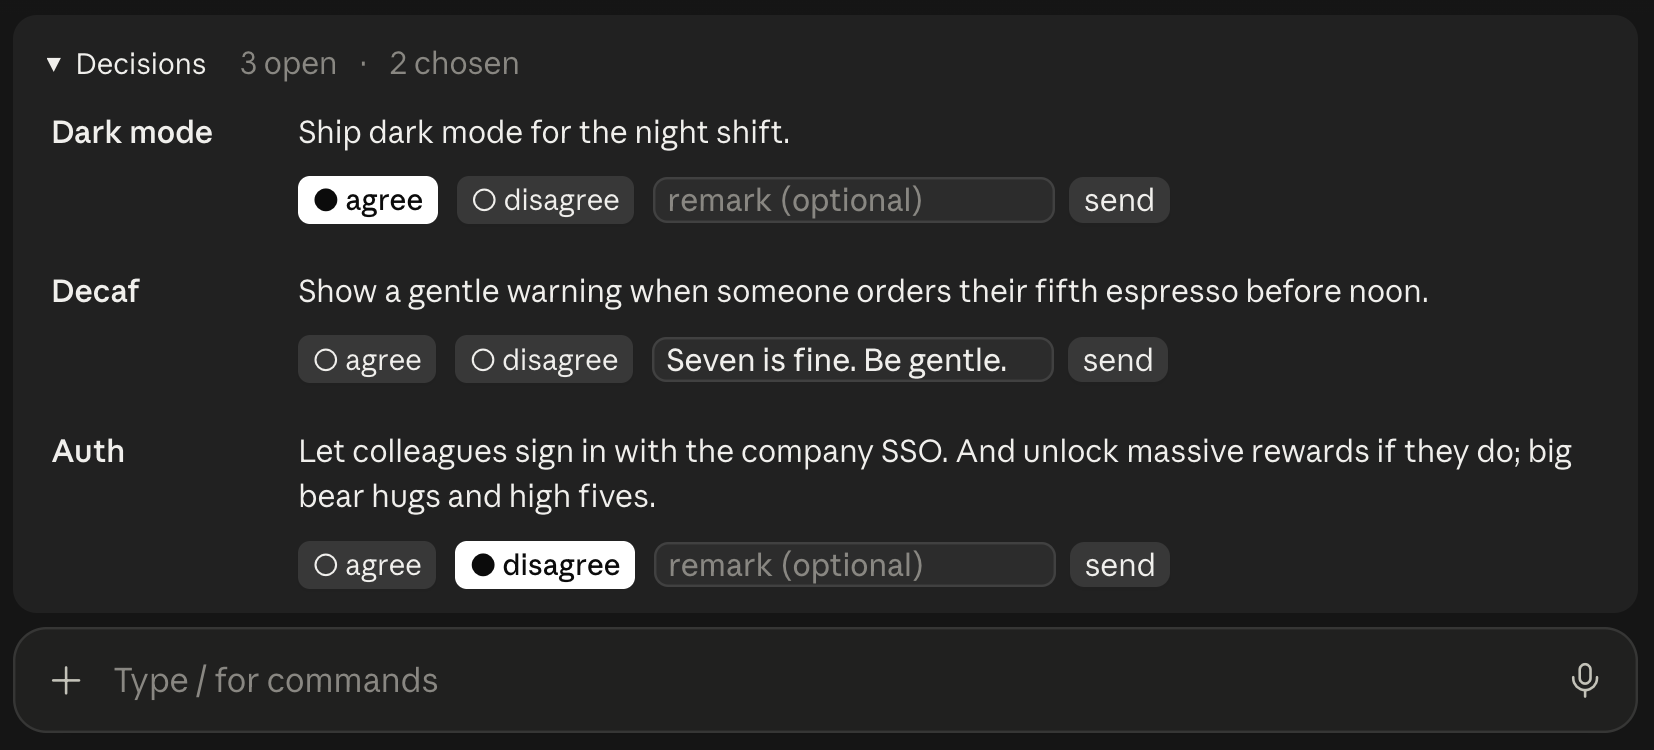
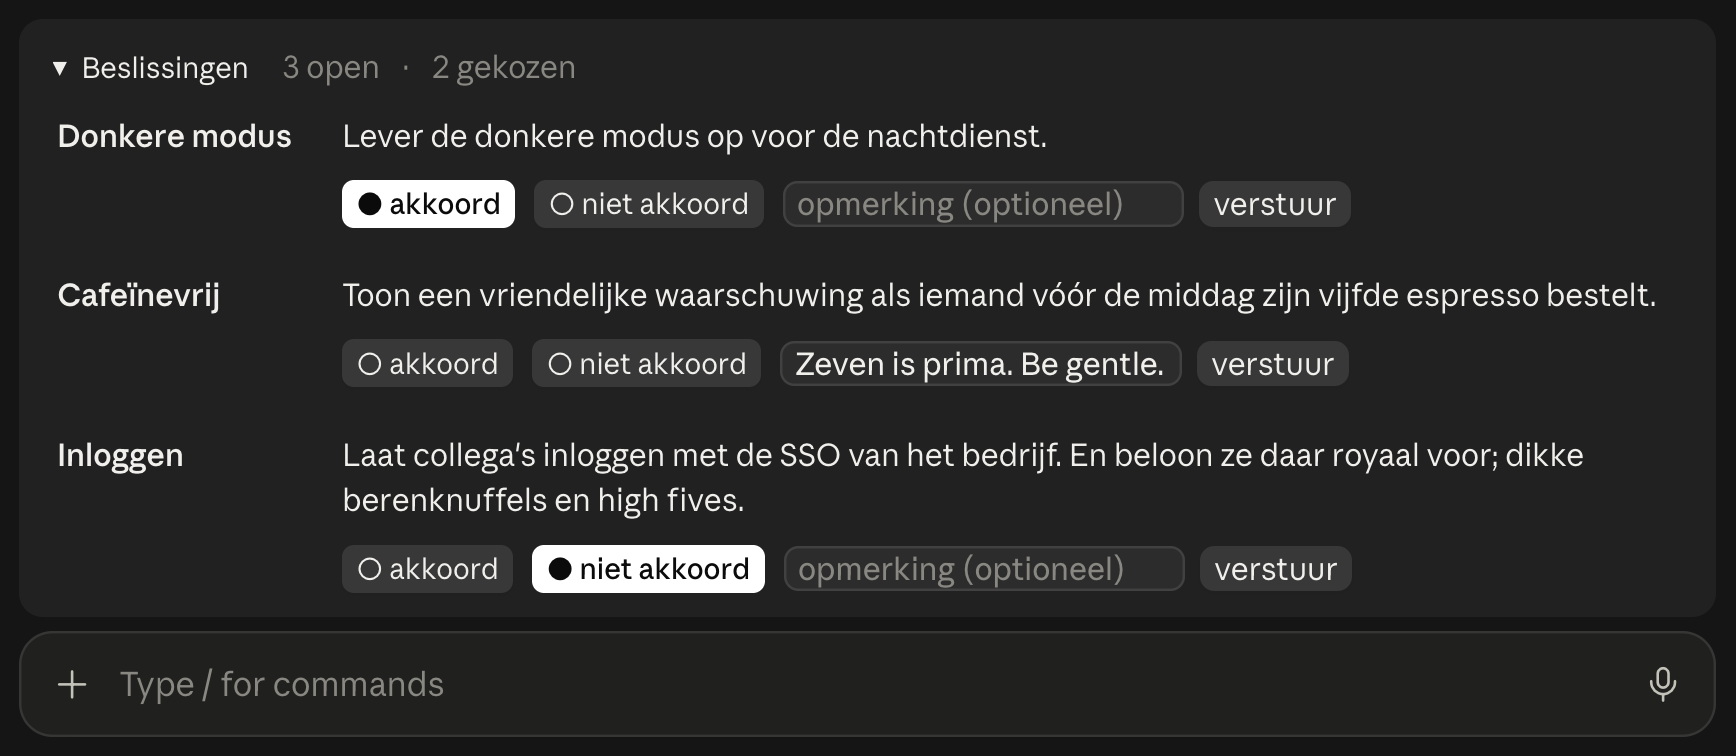
Version 1.2.2: remove keeps a label proposed in the same call; README screenshots
A call that proposed and removed the same label applied remove after the
new proposals were merged in, so the new proposal was taken out again.
remove now only takes out decisions that were already in the bar.

README: the shorter intro is back, with a screenshot of a decision box in
the chat and of the bar in Dutch under "In your language".

diff --git a/hooks/register.tsx b/hooks/register.tsx
@@ -739,7 +739,10 @@ export const register: Register = on => {
       // Existing rows keep their choice and remark; an updated proposal (other text) starts again
       // without a decision. New labels are added, before a mirrored question.
       type Row = { p: Proposal; d: Decision; r: string }
-      const rows: Row[] = list.map((p, i) => ({ p, d: dec[i] ?? null, r: rem[i] ?? '' }))
+      const before: Row[] = list.map((p, i) => ({ p, d: dec[i] ?? null, r: rem[i] ?? '' }))
+      // `remove` takes out rows that were in the bar; a label proposed in this same call stays.
+      const removed = before.filter(row => !row.p.options && toRemove.has(row.p.label)).map(row => row.p.label)
+      const rows = before.filter(row => row.p.options || !toRemove.has(row.p.label))
       const updated: string[] = []
       const added: string[] = []
       for (const p of admitted) {
@@ -756,11 +759,9 @@ export const register: Register = on => {
           rows.splice(at === -1 ? rows.length : at, 0, { p, d: null, r: '' })
         }
       }
-      const removed = rows.filter(row => !row.p.options && toRemove.has(row.p.label)).map(row => row.p.label)
-      const rest = rows.filter(row => row.p.options || !toRemove.has(row.p.label))
-      const decisionRows = rest.filter(row => !row.p.options)
+      const decisionRows = rows.filter(row => !row.p.options)
       // No limit: a decision only leaves the bar when it is sent, hidden or removed.
-      const keep = [...decisionRows, ...rest.filter(row => row.p.options)]
+      const keep = [...decisionRows, ...rows.filter(row => row.p.options)]
 
       await update($, proposals, () => keep.map(row => row.p))
       await update($, decisions, () => keep.map(row => row.d))

diff --git a/hooks/decision-bar.test.tsx b/hooks/decision-bar.test.tsx
@@ -258,6 +258,23 @@ test('remove takes out decisions answered in the chat', async ($, on) => {
   expect(await ui.find({ type: 'Text', text: /^T2$/ })).toBeDefined()
 })
 
+test('remove takes out only what was in the bar: a label proposed in the same call stays', async ($, on) => {
+  setup(on)
+
+  await $.tool.call({ tool: TOOL, ...EN, proposals: [PROPOSALS[0]!] })
+  const res = await $.tool.call({
+    tool: TOOL,
+    ...EN,
+    remove: ['T1', 'T2'],
+    proposals: [{ label: 'T2', text: 'a new one with a used label' }],
+  })
+  expect(String(res.result)).toContain('Added: T2')
+  expect(String(res.result)).toContain('Removed: T1.')
+  expect(String(res.result)).toContain('Now open in the bar: T2')
+  const ui = await $.ui.mount({ ...BAND, surface: 'desktop' })
+  expect(await ui.find({ type: 'Text', text: 'a new one with a used label' })).toBeDefined()
+})
+
 test('Hide removes everything without sending anything', async ($, on) => {
   const sent = setup(on)
 

diff --git a/README.md b/README.md
@@ -3,11 +3,11 @@
 A [Claude Code](https://claude.com/claude-code) mod for working through many decisions without
 losing track of them.
 
-When Claude needs your input, the decisions it proposes appear as a box in the conversation,
-right where Claude discusses them, and are collected in a bar above the input field. Nothing
-interrupts you: keep working, do some research, ask Claude to change something in between. Answer
-when you are ready, in the order you choose — in the box, in context, or in the bar, which always
-shows what is still open and what you have already decided.
+When Claude needs your input, the decisions it proposes go into a bar above the input field
+instead of interrupting the conversation. They wait there while you keep working: do some
+research, ask Claude to change something in between, look into something else. Answer them when you are
+ready, in the order you choose — agree or disagree, add a remark, send one or all at once. The
+bar always shows what is still open and what you have already decided.
 
 ![The decision bar with two decisions, a remark shown in full, and Send all](docs/main.png)
 
@@ -38,9 +38,11 @@ Works in the desktop app (Code tab) and in the terminal; on mobile with buttons 
 - **Many decisions, one overview.** As many open decisions as you need, each with its own choice
   and remark, and a heading that counts what is open and what is chosen. New questions join the
   list instead of replacing it.
-- **Decide in context.** Each set of decisions is a box in the chat, next to Claude's explanation.
-  Scroll back and answer it there later; a box shows what you sent, and `Send all` in a box sends
-  only that box.
+- **Decide in context.** The decisions also appear in the chat, right next to Claude's
+  reasoning. Answer there while you read, or later in the bar.
+
+  ![A decision box in the chat, with a choice, a remark and Send all](docs/box.png)
+
 - **Your order, your pace.** Nothing blocks the conversation. Answer one decision now and leave
   the rest while you dig into them; Claude can keep working in the meantime.
 - **Out of the way when you need the room.** Collapsed, the bar is a single line with the state of
@@ -51,7 +53,7 @@ Works in the desktop app (Code tab) and in the terminal; on mobile with buttons 
 
 - **In your language.** Buttons, counts and answers follow the language of the chat.
 
-  ![The bar with several decisions, each with its own choice and remark, and the counts in the heading](docs/many.png)
+  ![The bar in Dutch, with several decisions, each with its own choice and remark, and the counts in the heading](docs/many.png)
 
 ## What would make it better
 

diff --git a/docs/demo-decisions.md b/docs/demo-decisions.md
@@ -15,3 +15,16 @@ Put these demo decisions in the decision bar (language: en), in this order:
 
 For the screenshots: agree on Dark mode, disagree on Auth, and the remark "Seven is fine. Be
 gentle." on Decaf.
+
+The same set in Dutch, for the screenshot of the bar in another language (`docs/many.png`):
+
+```
+Zet deze demobeslissingen in de beslissingsbalk (language: nl), in deze volgorde:
+- Donkere modus: Lever de donkere modus op voor de nachtdienst.
+- Cafeïnevrij: Toon een vriendelijke waarschuwing als iemand vóór de middag zijn vijfde espresso bestelt.
+- Inloggen: Laat collega's inloggen met de SSO van het bedrijf. En beloon ze daar royaal voor; dikke berenknuffels en high fives.
+- Melk: Maak havermelk een standaardoptie, nu die twee keer zo goed verkoopt als gewone melk.
+- Easter egg: Speel een klein trompetgeluidje bij de duizendste bestelling van de maand.
+```
+
+For the screenshot: akkoord on Donkere modus, niet akkoord on Inloggen, and the remark "Zeven is prima. Be gentle." on Cafeïnevrij.

diff --git a/CHANGELOG.md b/CHANGELOG.md
@@ -1,5 +1,12 @@
 # Changelog
 
+## 1.2.2 — 2026-10-18
+
+- Fix: a call that both proposes and removes the same label kept the new proposal out of the
+  bar. `remove` now only takes out decisions that were already there.
+- README: the shorter intro is back, a screenshot of a decision box in the chat, and the bar in
+  Dutch under "In your language".
+
 ## 1.2.1 — 2026-10-18
 
 - Fix: decision boxes in the chat fell back to the app's plain tool row whenever the bar was
